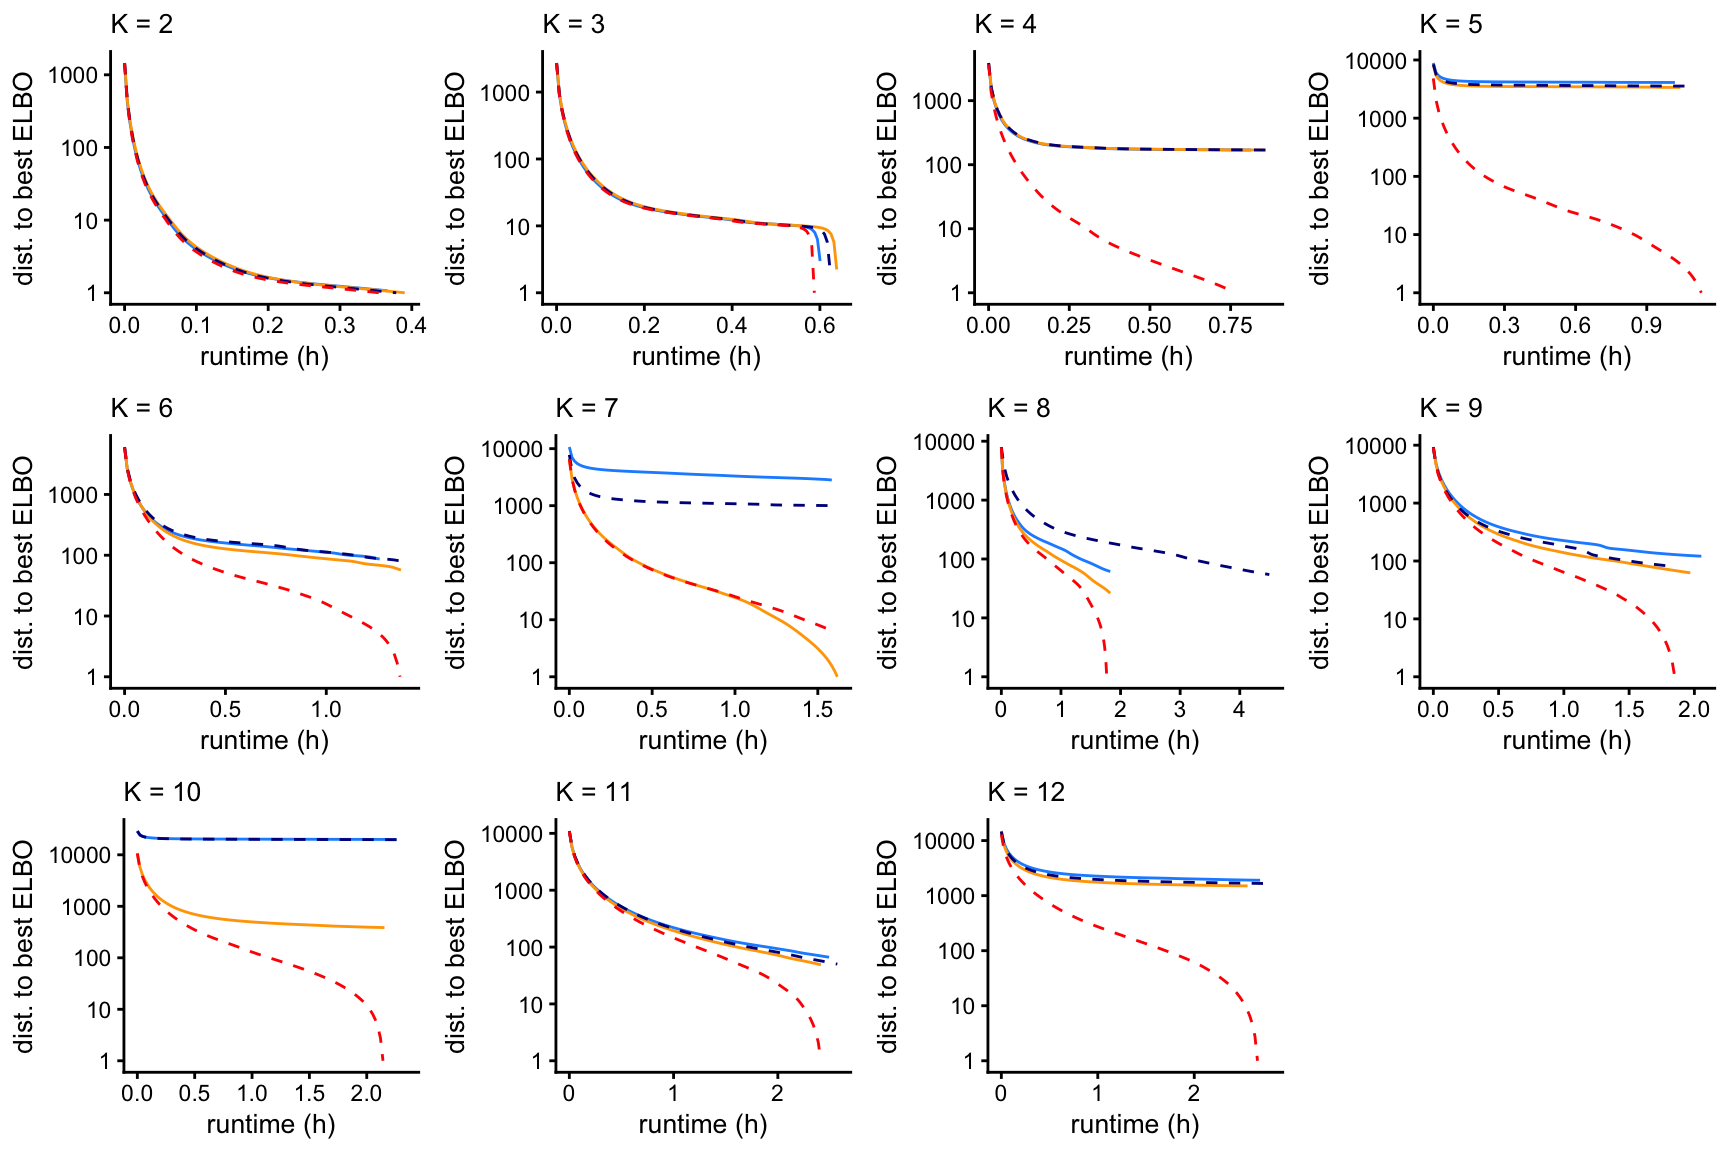
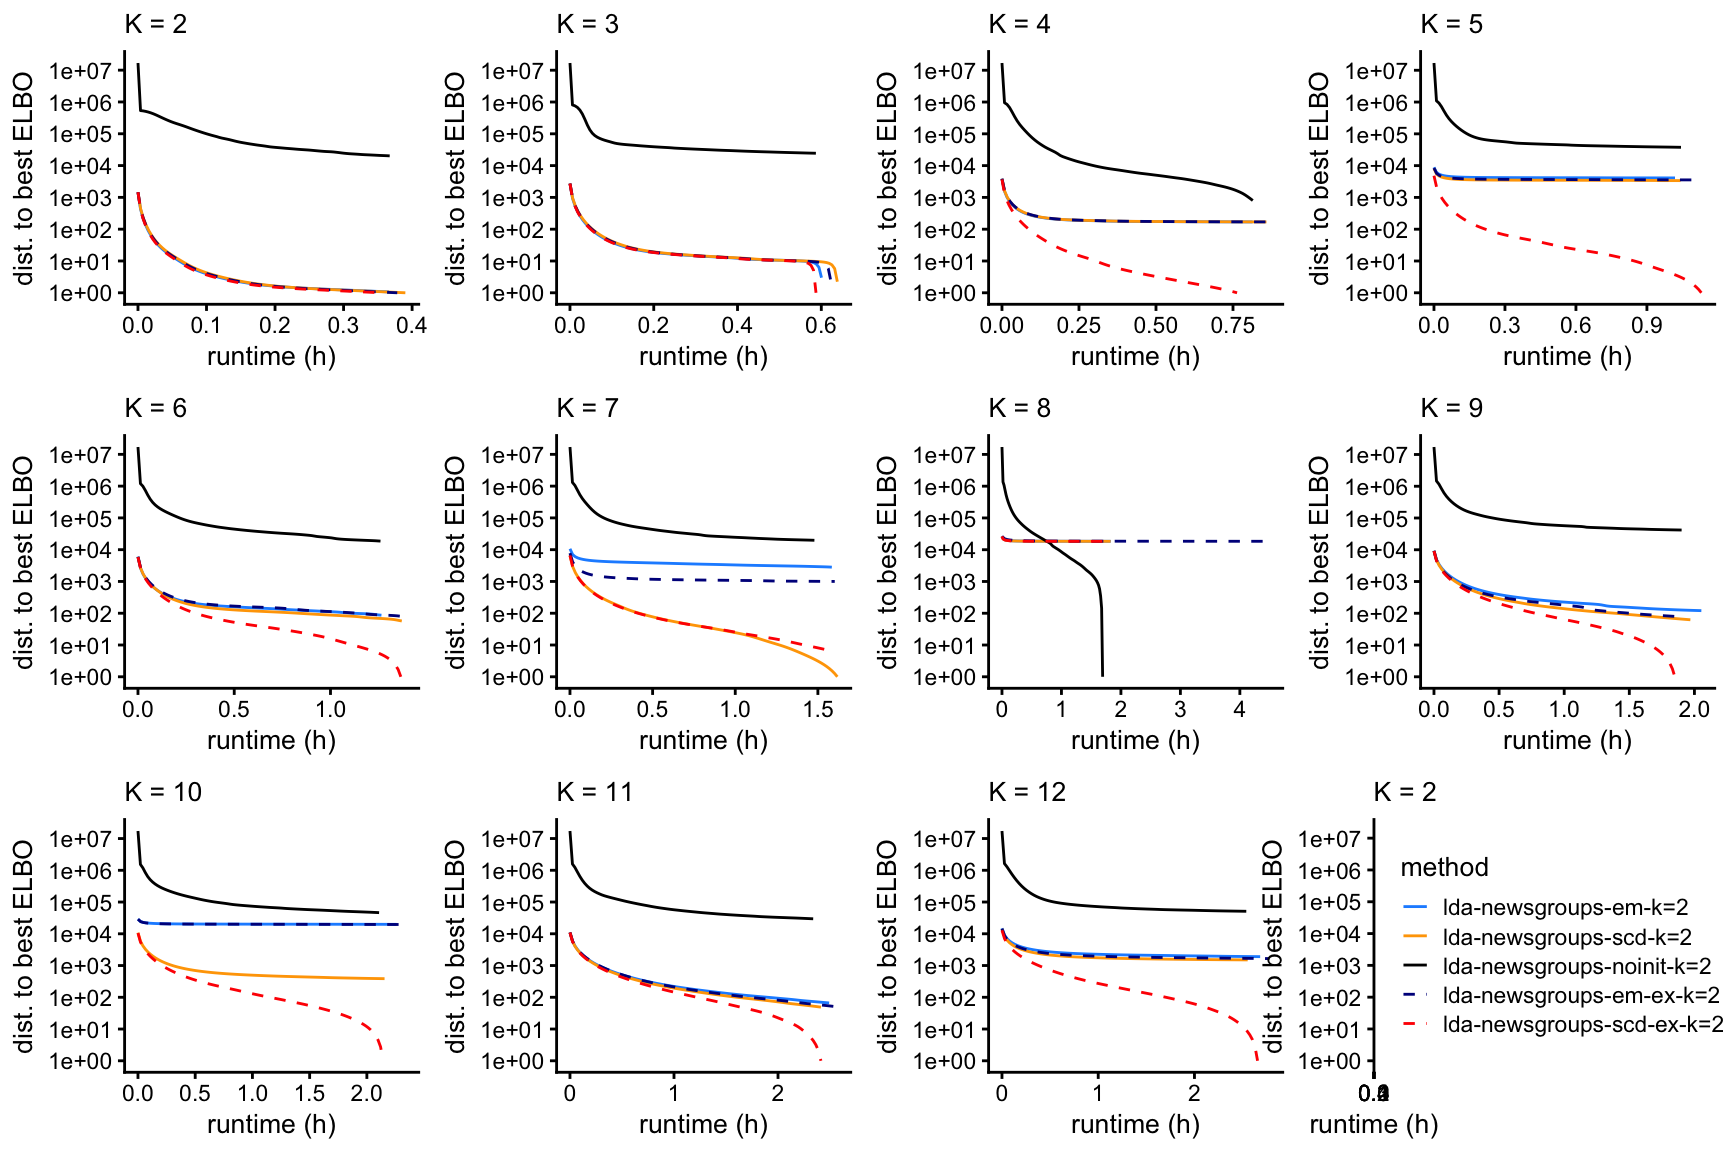
Build site.

diff --git a/docs/assess_fits_newsgroups.html b/docs/assess_fits_newsgroups.html
@@ -301,7 +301,7 @@ class="glyphicon glyphicon-ok text-success" aria-hidden="true"></span>
 <div class="tab-content">
 <div id="summary" class="tab-pane fade in active">
 <p>
-<strong>Last updated:</strong> 2024-07-28
+<strong>Last updated:</strong> 2024-08-21
 </p>
 <p>
 <strong>Checks:</strong> <span
@@ -433,15 +433,15 @@ project makes it easier to run your code on other machines.</p>
 <div class="panel panel-default">
 <div class="panel-heading">
 <p class="panel-title">
-<a data-toggle="collapse" data-parent="#workflowr-checks" href="#strongRepositoryversionstrongahrefhttpsgithubcomstephenslabfastTopicsexperimentstree3a0d053375052c48f16643772b024ef749343e05targetblank3a0d053a">
+<a data-toggle="collapse" data-parent="#workflowr-checks" href="#strongRepositoryversionstrongahrefhttpsgithubcomstephenslabfastTopicsexperimentstree11b38d620f470f3a3996fd422268a3bb1523e948targetblank11b38d6a">
 <span class="glyphicon glyphicon-ok text-success"
 aria-hidden="true"></span> <strong>Repository version:</strong>
-<a href="https://github.com/stephenslab/fastTopics-experiments/tree/3a0d053375052c48f16643772b024ef749343e05" target="_blank">3a0d053</a>
+<a href="https://github.com/stephenslab/fastTopics-experiments/tree/11b38d620f470f3a3996fd422268a3bb1523e948" target="_blank">11b38d6</a>
 </a>
 </p>
 </div>
 <div
[2 lines of base64/hex data omitted]
 class="panel-collapse collapse">
 <div class="panel-body">
 <p>
@@ -451,7 +451,7 @@ reproducibility.
 </p>
 <p>
 The results in this page were generated with repository version
-<a href="https://github.com/stephenslab/fastTopics-experiments/tree/3a0d053375052c48f16643772b024ef749343e05" target="_blank">3a0d053</a>.
+<a href="https://github.com/stephenslab/fastTopics-experiments/tree/11b38d620f470f3a3996fd422268a3bb1523e948" target="_blank">11b38d6</a>.
 See the <em>Past versions</em> tab to see a history of the changes made
 to the R Markdown and HTML files.
 </p>
@@ -471,26 +471,24 @@ Ignored files:
     Ignored:    data/droplet.RData
     Ignored:    data/nips_1-17.mat
     Ignored:    data/pbmc_68k.RData
-    Ignored:    output/droplet/fits-droplet.RData
     Ignored:    output/newsgroups/de-newsgroups.RData
     Ignored:    output/newsgroups/fits-newsgroups.RData
-    Ignored:    output/newsgroups/lda-newsgroups.RData
-    Ignored:    output/nips/fits-nips.RData
-    Ignored:    output/nips/lda-nips.RData
-    Ignored:    output/pbmc68k/fits-pbmc68k.RData
+    Ignored:    output/newsgroups/rds/
+    Ignored:    output/pbmc68k/rds/
 
 Untracked files:
+    Untracked:  analysis/.DS_Store
     Untracked:  analysis/lda-eb-newsgroups-em-k=10.rds
     Untracked:  analysis/lda-eb-newsgroups-scd-ex-k=10.rds
     Untracked:  analysis/lda-newsgroups-em-k=10.rds
     Untracked:  analysis/lda-newsgroups-scd-ex-k=10.rds
     Untracked:  analysis/maptpx-newsgroups-em-k=10.rds
     Untracked:  analysis/maptpx-newsgroups-scd-ex-k=10.rds
-    Untracked:  analysis/smallsim_elbo.pdf
-    Untracked:  analysis/smallsim_lda_structure_plots.pdf
-    Untracked:  analysis/smallsim_progress.pdf
-    Untracked:  analysis/smallsim_structure_plots.pdf
+    Untracked:  output/newsgroups/lda-newsgroups.RData
     Untracked:  plots/
+
+Unstaged changes:
+    Modified:   code/plot_functions.R
 
 </code></pre>
 <p>
@@ -537,6 +535,40 @@ Message
 </tr>
 </thead>
 <tbody>
+<tr>
+<td>
+Rmd
+</td>
+<td>
+<a href="https://github.com/stephenslab/fastTopics-experiments/blob/11b38d620f470f3a3996fd422268a3bb1523e948/analysis/assess_fits_newsgroups.Rmd" target="_blank">11b38d6</a>
+</td>
+<td>
+Peter Carbonetto
+</td>
+<td>
+2024-08-21
+</td>
+<td>
+workflowr::wflow_publish("assess_fits_newsgroups.Rmd", verbose = TRUE)
+</td>
+</tr>
+<tr>
+<td>
+html
+</td>
+<td>
+<a href="https://rawcdn.githack.com/stephenslab/fastTopics-experiments/1f86ead8f9a0a9e73aeb57fd5a4cc9670f191a6b/docs/assess_fits_newsgroups.html" target="_blank">1f86ead</a>
+</td>
+<td>
+Peter Carbonetto
+</td>
+<td>
+2024-07-28
+</td>
+<td>
+Added ELBO plots to assess_fits_newsgroups analysis.
+</td>
+</tr>
 <tr>
 <td>
 Rmd
@@ -1123,6 +1155,17 @@ Date
 <tbody>
 <tr>
 <td>
+<a href="https://github.com/stephenslab/fastTopics-experiments/blob/1f86ead8f9a0a9e73aeb57fd5a4cc9670f191a6b/docs/figure/assess_fits_newsgroups.Rmd/plot-loglik-vs-k-1.png" target="_blank">1f86ead</a>
+</td>
+<td>
+Peter Carbonetto
+</td>
+<td>
+2024-07-28
+</td>
+</tr>
+<tr>
+<td>
 <a href="https://github.com/stephenslab/fastTopics-experiments/blob/cb0de01e584f8cbab01c891a570985f07386b67f/docs/figure/assess_fits_newsgroups.Rmd/plot-loglik-vs-k-1.png" target="_blank">cb0de01</a>
 </td>
 <td>
@@ -1201,6 +1244,17 @@ Date
 <tbody>
 <tr>
 <td>
+<a href="https://github.com/stephenslab/fastTopics-experiments/blob/1f86ead8f9a0a9e73aeb57fd5a4cc9670f191a6b/docs/figure/assess_fits_newsgroups.Rmd/plot-loglik-1.png" target="_blank">1f86ead</a>
+</td>
+<td>
+Peter Carbonetto
+</td>
+<td>
+2024-07-28
+</td>
+</tr>
+<tr>
+<td>
 <a href="https://github.com/stephenslab/fastTopics-experiments/blob/cb0de01e584f8cbab01c891a570985f07386b67f/docs/figure/assess_fits_newsgroups.Rmd/plot-loglik-1.png" target="_blank">cb0de01</a>
 </td>
 <td>
@@ -1244,6 +1298,17 @@ Date
 </tr>
 </thead>
 <tbody>
+<tr>
+<td>
+<a href="https://github.com/stephenslab/fastTopics-experiments/blob/1f86ead8f9a0a9e73aeb57fd5a4cc9670f191a6b/docs/figure/assess_fits_newsgroups.Rmd/plot-res-1.png" target="_blank">1f86ead</a>
+</td>
+<td>
+Peter Carbonetto
+</td>
+<td>
+2024-07-28
+</td>
+</tr>
 <tr>
 <td>
 <a href="https://github.com/stephenslab/fastTopics-experiments/blob/ca4f229cde68c41034a76ab380ee31598824c76d/docs/figure/assess_fits_newsgroups.Rmd/plot-res-1.png" target="_blank">ca4f229</a>
@@ -1300,6 +1365,17 @@ Date
 </tr>
 </thead>
 <tbody>
+<tr>
+<td>
+<a href="https://github.com/stephenslab/fastTopics-experiments/blob/1f86ead8f9a0a9e73aeb57fd5a4cc9670f191a6b/docs/figure/assess_fits_newsgroups.Rmd/loadings-scatterplot-k-9-1.png" target="_blank">1f86ead</a>
+</td>
+<td>
+Peter Carbonetto
+</td>
+<td>
+2024-07-28
+</td>
+</tr>
 <tr>
 <td>
 <a href="https://github.com/stephenslab/fastTopics-experiments/blob/42cb17eae50d0d584c46da9d13cb91aad567d0c1/docs/figure/assess_fits_newsgroups.Rmd/loadings-scatterplot-k-9-1.png" target="_blank">42cb17e</a>
@@ -1365,6 +1441,17 @@ Date
 </tr>
 </thead>
 <tbody>
+<tr>
+<td>
+<a href="https://github.com/stephenslab/fastTopics-experiments/blob/1f86ead8f9a0a9e73aeb57fd5a4cc9670f191a6b/docs/figure/assess_fits_newsgroups.Rmd/loadings-scatterplot-k-10-1.png" target="_blank">1f86ead</a>
+</td>
+<td>
+Peter Carbonetto
+</td>
+<td>
+2024-07-28
+</td>
+</tr>
 <tr>
 <td>
 <a href="https://github.com/stephenslab/fastTopics-experiments/blob/b6c0c716e598da39f23552243589300f1fcab640/docs/figure/assess_fits_newsgroups.Rmd/loadings-scatterplot-k-10-1.png" target="_blank">b6c0c71</a>
@@ -1446,6 +1533,17 @@ Date
 <tbody>
 <tr>
 <td>
+<a href="https://github.com/stephenslab/fastTopics-experiments/blob/1f86ead8f9a0a9e73aeb57fd5a4cc9670f191a6b/docs/figure/assess_fits_newsgroups.Rmd/unnamed-chunk-1-1.png" target="_blank">1f86ead</a>
+</td>
+<td>
+Peter Carbonetto
+</td>
+<td>
+2024-07-28
+</td>
+</tr>
+<tr>
+<td>
 <a href="https://github.com/stephenslab/fastTopics-experiments/blob/5589c8da473be0e5da1125f66eb68e2f1ee52701/docs/figure/assess_fits_newsgroups.Rmd/unnamed-chunk-1-1.png" target="_blank">5589c8d</a>
 </td>
 <td>
@@ -1514,6 +1612,17 @@ Date
 <tbody>
 <tr>
 <td>
+<a href="https://github.com/stephenslab/fastTopics-experiments/blob/1f86ead8f9a0a9e73aeb57fd5a4cc9670f191a6b/docs/figure/assess_fits_newsgroups.Rmd/words-scatterplot-1.png" target="_blank">1f86ead</a>
+</td>
+<td>
+Peter Carbonetto
+</td>
+<td>
+2024-07-28
+</td>
+</tr>
+<tr>
+<td>
 <a href="https://github.com/stephenslab/fastTopics-experiments/blob/aab1483277048941158cf7578432d70aad23de6d/docs/figure/assess_fits_newsgroups.Rmd/words-scatterplot-1.png" target="_blank">aab1483</a>
 </td>
 <td>
@@ -1542,15 +1651,55 @@ Peter Carbonetto
 various initializations:</p>
 <pre class="r"><code>load(&quot;../output/newsgroups/lda-newsgroups.RData&quot;)
 p &lt;- vector(&quot;list&quot;,12)
+runs   &lt;- which(dat$k == 2)
+p[[1]] &lt;- create_elbo_plot(fits[runs],dat[runs,&quot;runtime&quot;],2)
 for (i in 2:12) {
   runs   &lt;- which(dat$k == i)
-  p[[i]] &lt;- create_elbo_plot(fits[runs],dat[runs,&quot;runtime&quot;],i)
+  p[[i]] &lt;- create_elbo_plot(fits[runs],dat[runs,&quot;runtime&quot;],i) +
+            guides(color = &quot;none&quot;,linetype = &quot;none&quot;)
 }
 plot_grid(p[[2]],p[[3]],p[[4]],p[[5]],
           p[[6]],p[[7]],p[[8]],p[[9]],
-          p[[10]],p[[11]],p[[12]],
+          p[[10]],p[[11]],p[[12]],p[[1]],
           nrow = 3,ncol = 4)</code></pre>
 <p><img src="figure/assess_fits_newsgroups.Rmd/elbo-plots-1.png" width="864" style="display: block; margin: auto;" /></p>
+<p>
+<button type="button" class="btn btn-default btn-xs btn-workflowr btn-workflowr-fig" data-toggle="collapse" data-target="#fig-elbo-plots-1">
+Past versions of elbo-plots-1.png
+</button>
+</p>
+<div id="fig-elbo-plots-1" class="collapse">
+<div class="table-responsive">
+<table class="table table-condensed table-hover">
+<thead>
+<tr>
+<th>
+Version
+</th>
+<th>
+Author
+</th>
+<th>
+Date
+</th>
+</tr>
+</thead>
+<tbody>
+<tr>
+<td>
+<a href="https://github.com/stephenslab/fastTopics-experiments/blob/1f86ead8f9a0a9e73aeb57fd5a4cc9670f191a6b/docs/figure/assess_fits_newsgroups.Rmd/elbo-plots-1.png" target="_blank">1f86ead</a>
+</td>
+<td>
+Peter Carbonetto
+</td>
+<td>
+2024-07-28
+</td>
+</tr>
+</tbody>
+</table>
+</div>
+</div>
 <br>
 <p>
 <button type="button" class="btn btn-default btn-workflowr btn-workflowr-sessioninfo" data-toggle="collapse" data-target="#workflowr-sessioninfo" style="display: block;">
